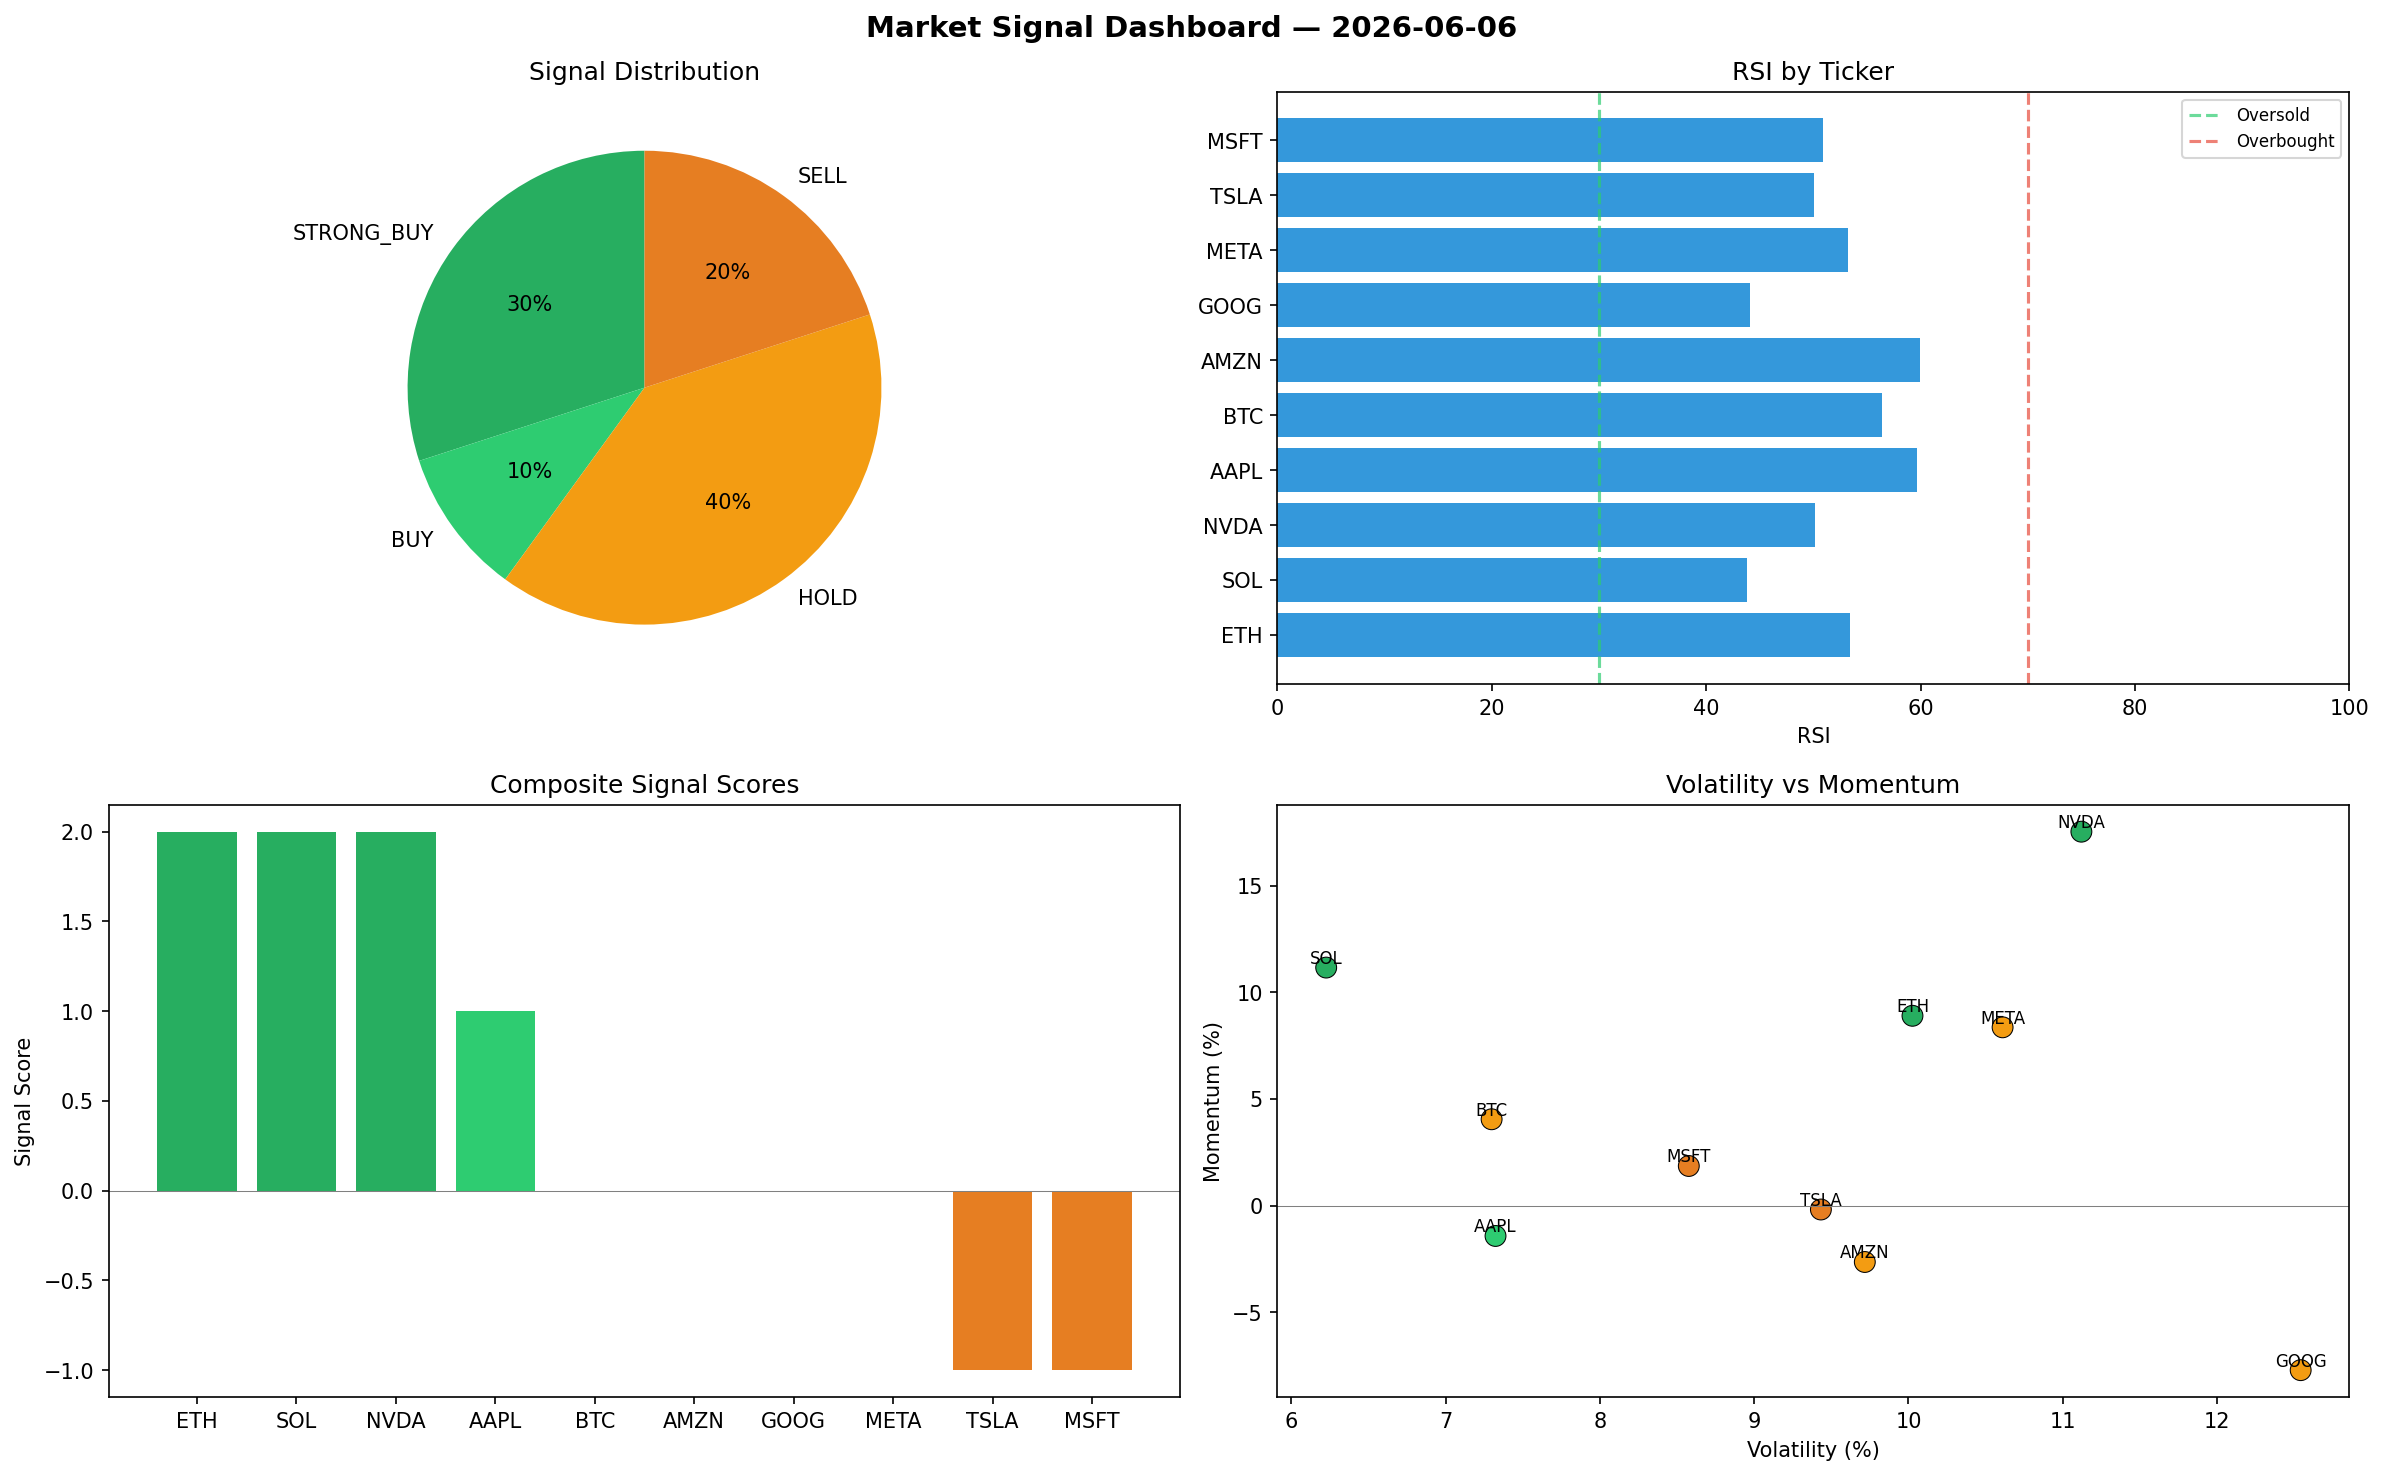
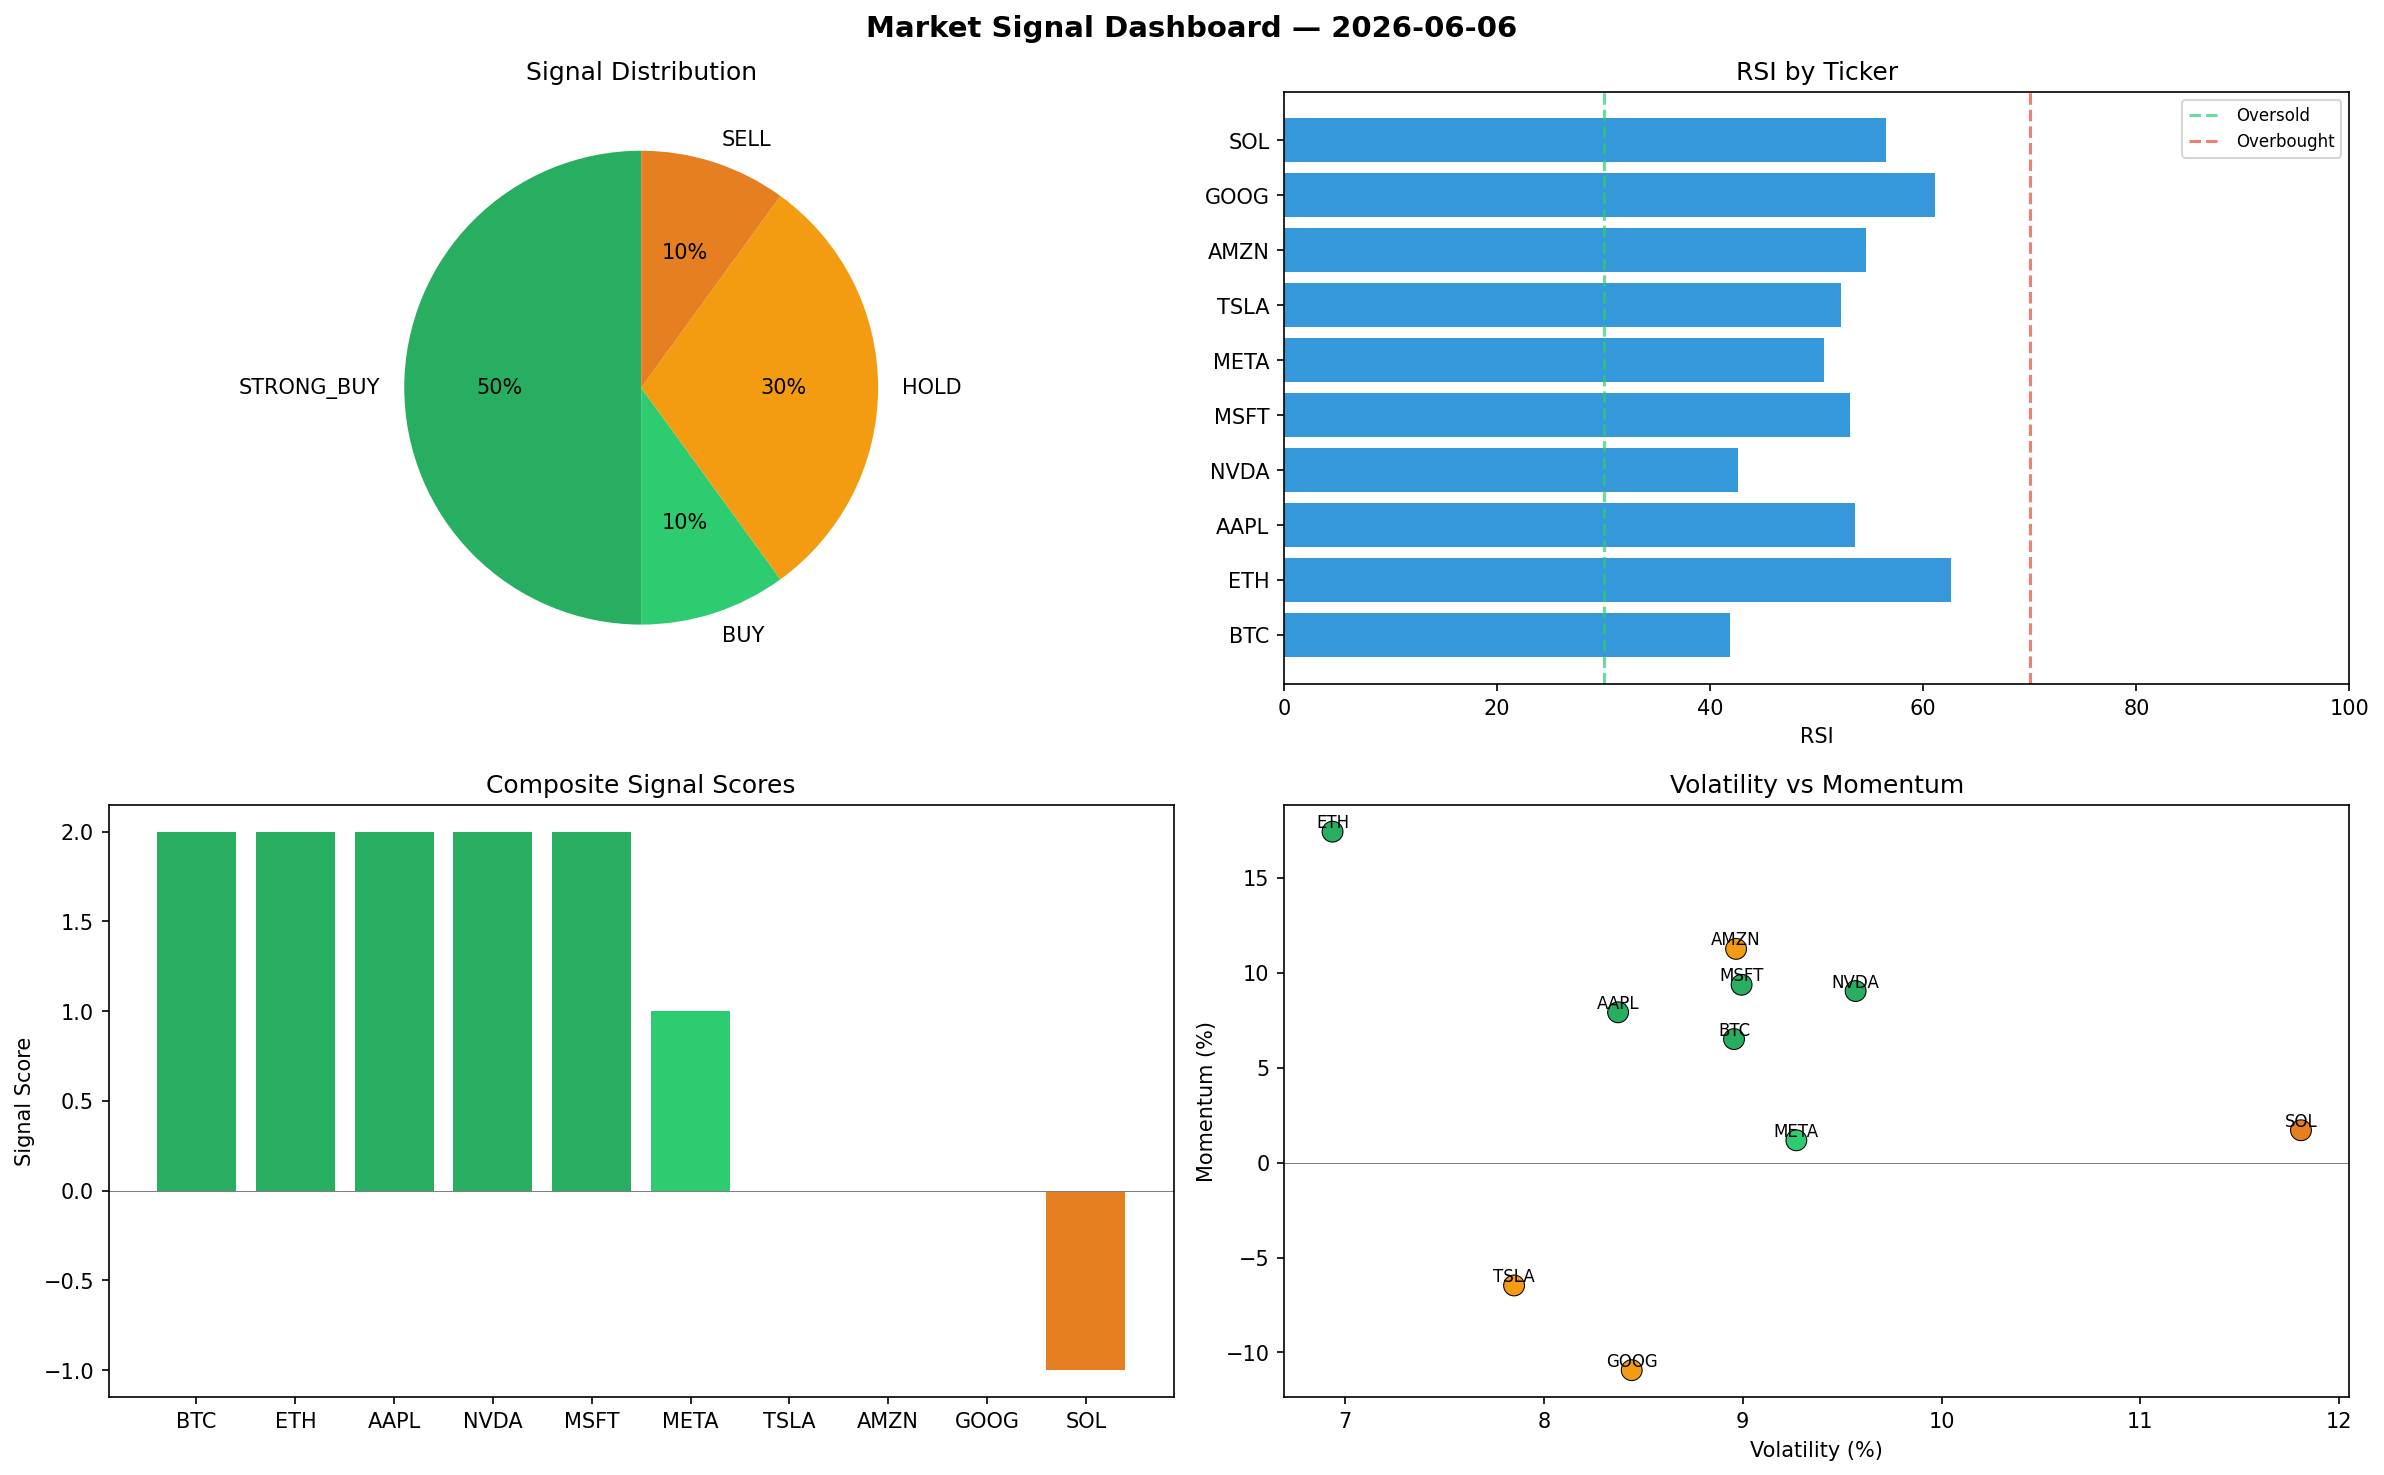
automated-bots: market signals 2026-06-06T15:51

diff --git a/logs/2026-06-06.md b/logs/2026-06-06.md
@@ -1,6 +1,6 @@
 # Market Signal Report — 2026-06-06
 
-**Run ID:** `3ee3b4d9a1` | **Buy:** 4 | **Sell:** 2 | **Hold:** 4
+**Run ID:** `6a75a9b7e4` | **Buy:** 6 | **Sell:** 1 | **Hold:** 3
 
 ![Dashboard](2026-06-06_dashboard.png)
 
@@ -8,28 +8,28 @@
 
 | Ticker | Price | Signal | Score | RSI | Momentum | Confidence |
 |--------|-------|--------|-------|-----|----------|------------|
-| ETH | $4787.22 | **STRONG_BUY** | 2 | 53.41 | 0.089 | 0.5 |
-| SOL | $2915.58 | **STRONG_BUY** | 2 | 43.83 | 0.1116 | 0.5 |
-| NVDA | $4978.61 | **STRONG_BUY** | 2 | 50.12 | 0.1753 | 0.5 |
-| AAPL | $4859.36 | **BUY** | 1 | 59.66 | -0.0142 | 0.25 |
-| BTC | $4470.45 | **HOLD** | 0 | 56.38 | 0.0405 | 0.0 |
-| AMZN | $1385.76 | **HOLD** | 0 | 59.92 | -0.0264 | 0.0 |
-| GOOG | $694.19 | **HOLD** | 0 | 44.12 | -0.0771 | 0.0 |
-| META | $3219.52 | **HOLD** | 0 | 53.23 | 0.0836 | 0.0 |
-| TSLA | $4038.5 | **SELL** | -1 | 50.07 | -0.0018 | 0.25 |
-| MSFT | $4924.93 | **SELL** | -1 | 50.91 | 0.0186 | 0.25 |
+| BTC | $248.26 | **STRONG_BUY** | 2 | 41.87 | 0.065 | 0.5 |
+| ETH | $3406.06 | **STRONG_BUY** | 2 | 62.58 | 0.1742 | 0.5 |
+| AAPL | $24.27 | **STRONG_BUY** | 2 | 53.61 | 0.0791 | 0.5 |
+| NVDA | $2737.31 | **STRONG_BUY** | 2 | 42.61 | 0.0903 | 0.5 |
+| MSFT | $4585.65 | **STRONG_BUY** | 2 | 53.12 | 0.0936 | 0.5 |
+| META | $1884.63 | **BUY** | 1 | 50.66 | 0.0117 | 0.25 |
+| TSLA | $4208.09 | **HOLD** | 0 | 52.27 | -0.0647 | 0.0 |
+| AMZN | $1917.93 | **HOLD** | 0 | 54.64 | 0.1125 | 0.0 |
+| GOOG | $1487.23 | **HOLD** | 0 | 61.1 | -0.1093 | 0.0 |
+| SOL | $1966.58 | **SELL** | -1 | 56.53 | 0.017 | 0.25 |
 
 ## Delta vs Yesterday
 
 | Ticker | Today | Yesterday | Price Change | Signal Changed |
 |--------|-------|-----------|-------------|----------------|
-| ETH | STRONG_BUY | STRONG_BUY | 📈 37.85% | — |
-| SOL | STRONG_BUY | STRONG_SELL | 📈 5.61% | ⚠ YES |
-| NVDA | STRONG_BUY | HOLD | 📈 19.05% | ⚠ YES |
-| AAPL | BUY | STRONG_SELL | 📈 218.58% | ⚠ YES |
-| BTC | HOLD | BUY | 📈 736.16% | ⚠ YES |
-| AMZN | HOLD | STRONG_BUY | 📉 -66.4% | ⚠ YES |
-| GOOG | HOLD | HOLD | 📉 -85.76% | — |
-| META | HOLD | STRONG_SELL | 📈 11.13% | ⚠ YES |
-| TSLA | SELL | HOLD | 📉 -7.35% | ⚠ YES |
-| MSFT | SELL | BUY | 📈 112.22% | ⚠ YES |
+| BTC | STRONG_BUY | BUY | 📉 -53.57% | ⚠ YES |
+| ETH | STRONG_BUY | STRONG_BUY | 📉 -1.92% | — |
+| AAPL | STRONG_BUY | STRONG_SELL | 📉 -98.41% | ⚠ YES |
+| NVDA | STRONG_BUY | HOLD | 📉 -34.54% | ⚠ YES |
+| MSFT | STRONG_BUY | BUY | 📈 97.6% | ⚠ YES |
+| META | BUY | STRONG_SELL | 📉 -34.94% | ⚠ YES |
+| TSLA | HOLD | HOLD | 📉 -3.46% | — |
+| AMZN | HOLD | STRONG_BUY | 📉 -53.5% | ⚠ YES |
+| GOOG | HOLD | HOLD | 📉 -69.48% | — |
+| SOL | SELL | STRONG_SELL | 📉 -28.77% | ⚠ YES |
